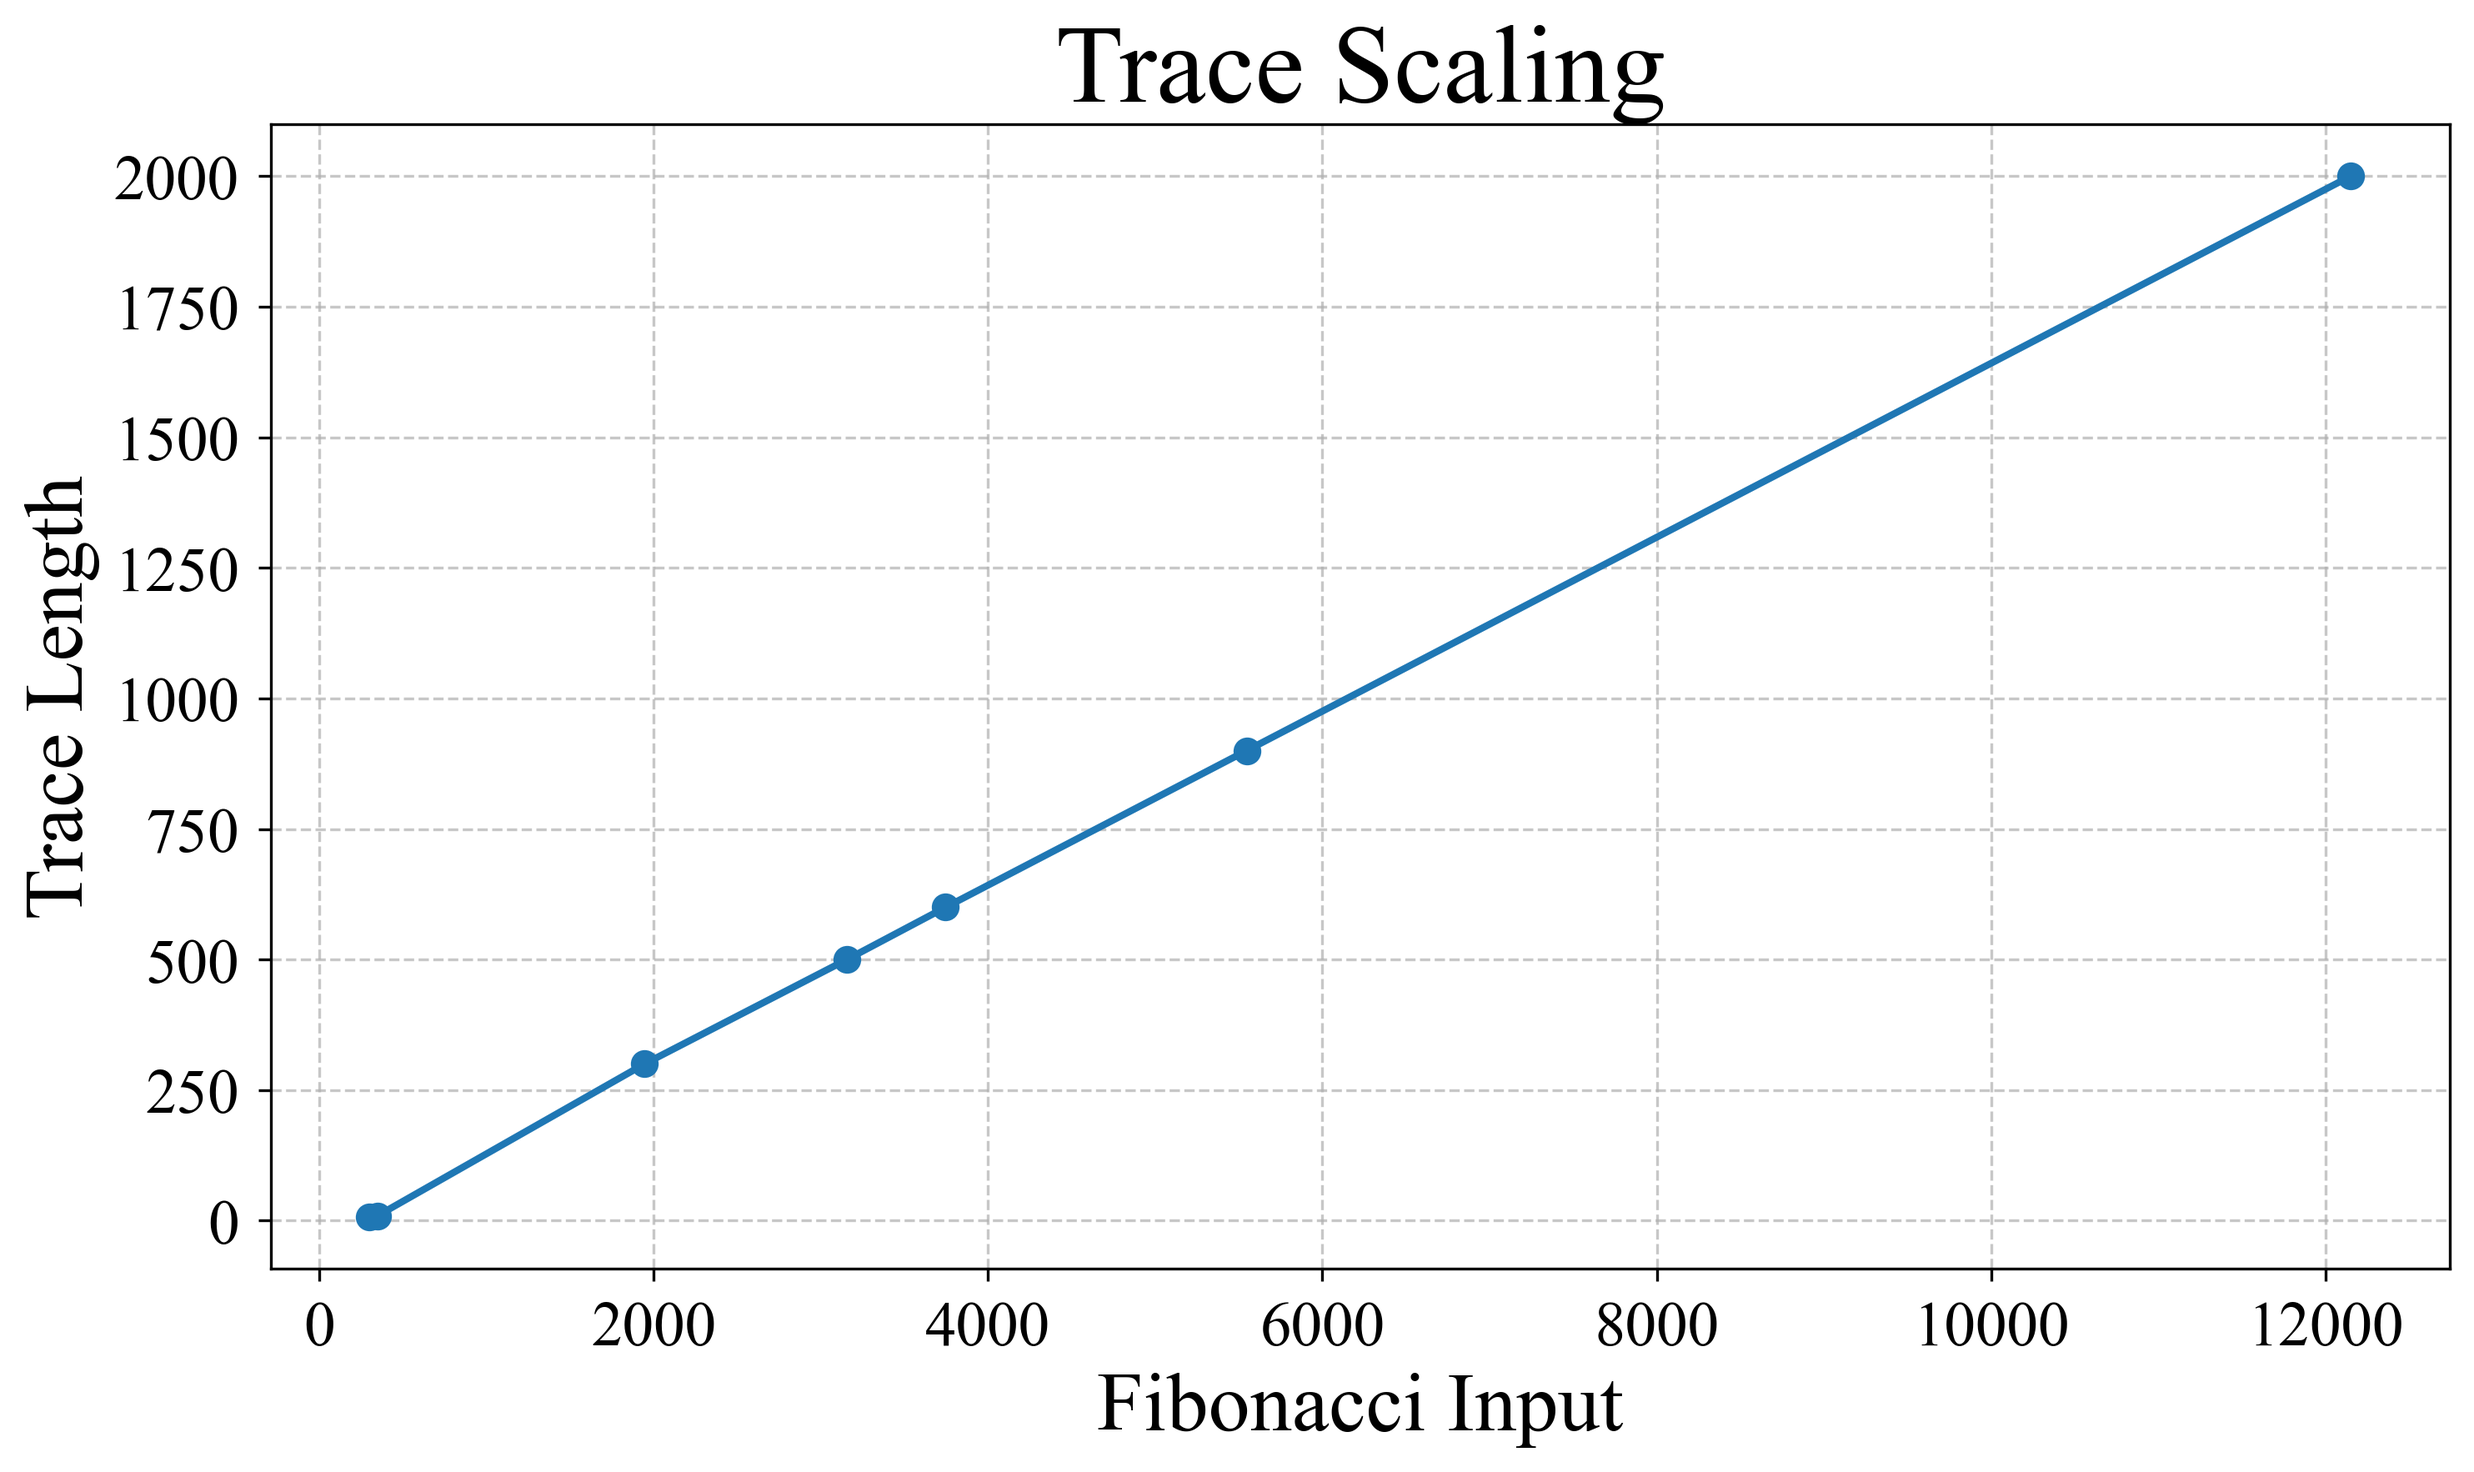
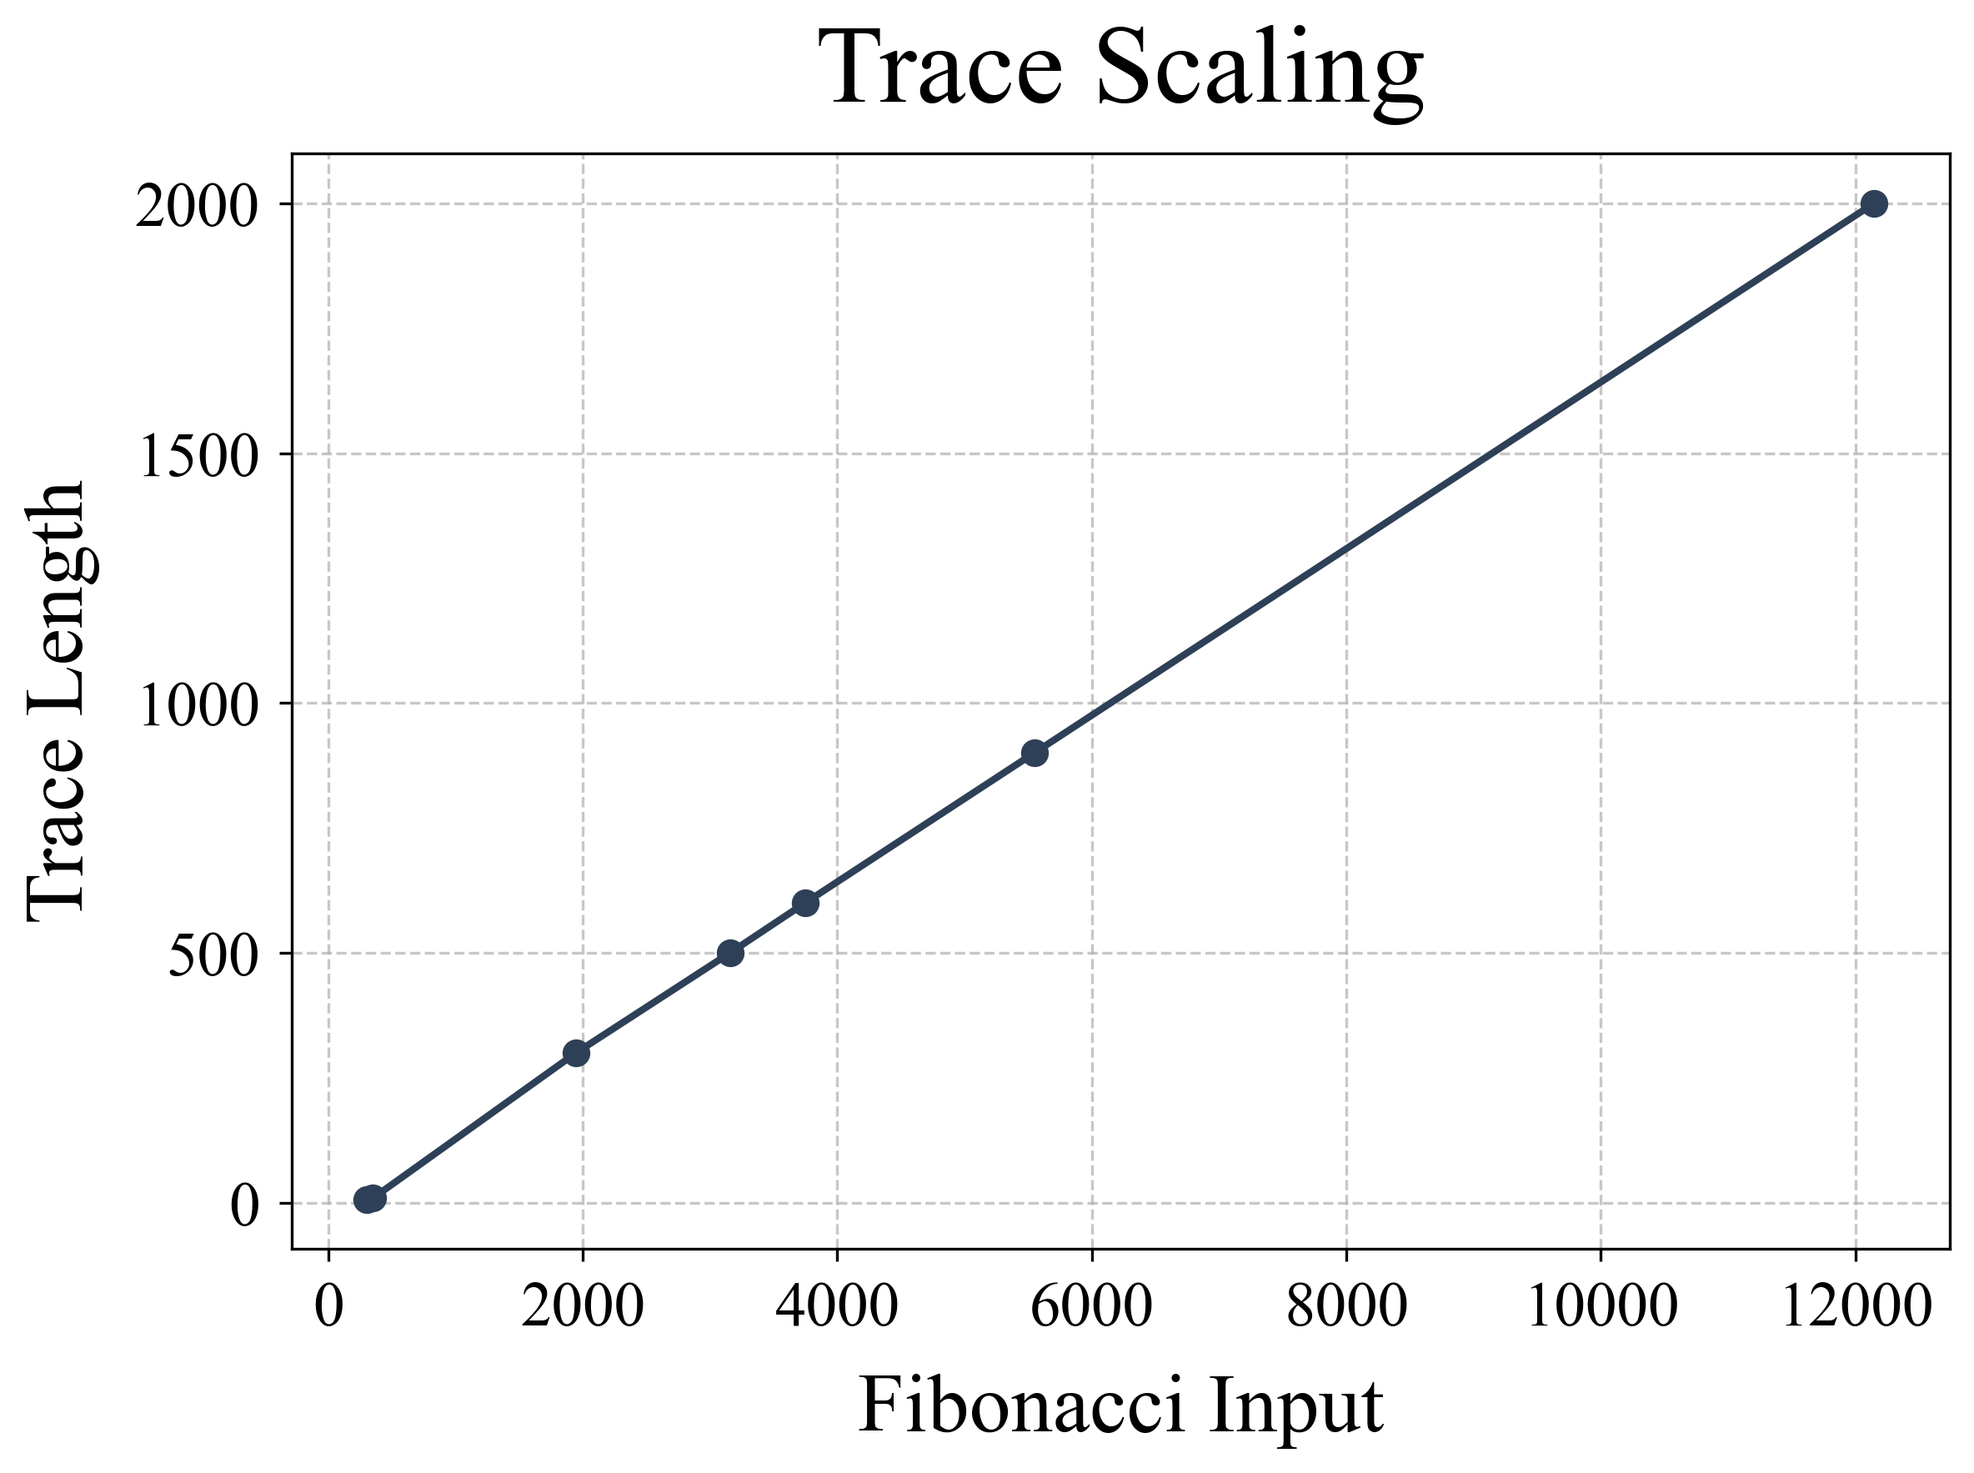
fix: consistent graph formatting (size, font, color, etc)

diff --git a/plot/mem-overhead/plot_mem_overhead.py b/plot/mem-overhead/plot_mem_overhead.py
@@ -2,6 +2,7 @@ import matplotlib.pyplot as plt
 import matplotlib as mpl
 import ast
 import os
+
 # Set style for research paper
 plt.style.use('seaborn-v0_8-paper')
 mpl.rcParams['font.family'] = 'serif'
@@ -22,19 +23,19 @@ x_values = [item[0] for item in data]
 y_values = [item[1] for item in data]
 
 # Create the plot
-plt.figure(figsize=(10, 6))
-plt.plot(x_values, y_values, 'o-', linewidth=2, markersize=8)
+fig, ax = plt.subplots(figsize=(8, 6))
+ax.plot(x_values, y_values, 'o-', color='#2E4057', linewidth=2, markersize=8)
 
 # Add labels and title
-plt.xlabel('Trace Length')
-plt.ylabel('Percent Memory Proof (%)')
-plt.title('Memory Proof Overhead')
+ax.set_xlabel('Trace Length', fontsize=24, labelpad=10)
+ax.set_ylabel('Percent Memory Proof (%)', fontsize=24, labelpad=10)
+ax.set_title('Memory Proof Overhead', fontsize=32, pad=15)
 
 # Set y-axis limits
-plt.ylim(40, 80)
+ax.set_ylim(40, 80)
 
 # Add grid for better readability
-plt.grid(True, linestyle='--', alpha=0.7)
+ax.grid(True, linestyle='--', alpha=0.7)
 
 # Save the plot
 plt.tight_layout()

diff --git a/plot/trace/plot_trace_len.py b/plot/trace/plot_trace_len.py
@@ -2,6 +2,7 @@ import matplotlib.pyplot as plt
 import matplotlib as mpl
 import ast
 import os
+
 # Set style for research paper
 plt.style.use('seaborn-v0_8-paper')
 mpl.rcParams['font.family'] = 'serif'
@@ -22,16 +23,16 @@ x_values = [item[1] for item in data]
 y_values = [item[0] for item in data]
 
 # Create the plot
-plt.figure(figsize=(10, 6))
-plt.plot(x_values, y_values, 'o-', linewidth=2, markersize=8)
+fig, ax = plt.subplots(figsize=(8, 6))
+ax.plot(x_values, y_values, 'o-', color='#2E4057', linewidth=2, markersize=8)
 
 # Add labels and title
-plt.xlabel('Fibonacci Input')
-plt.ylabel('Trace Length')
-plt.title('Trace Scaling')
+ax.set_xlabel('Fibonacci Input', fontsize=24, labelpad=10)
+ax.set_ylabel('Trace Length', fontsize=24, labelpad=10)
+ax.set_title('Trace Scaling', fontsize=32, pad=15)
 
 # Add grid for better readability
-plt.grid(True, linestyle='--', alpha=0.7)
+ax.grid(True, linestyle='--', alpha=0.7)
 
 # Save the plot
 plt.tight_layout()

diff --git a/plot/prove/plotter.py b/plot/prove/plotter.py
@@ -26,7 +26,7 @@ with open(omc_file, 'r') as f:
 with open(r1cs_file, 'r') as f:
     r1cs_data = literal_eval(f.read())
 
-fig, ax = plt.subplots(figsize=(12, 10))
+fig, ax = plt.subplots(figsize=(8, 6))
 omc_x = [point[0] for point in omc_data]
 omc_y = [point[1] * 65/50 for point in omc_data]
 r1cs_x = [point[0] for point in r1cs_data] 

diff --git a/plot/size/plotter.py b/plot/size/plotter.py
@@ -26,7 +26,7 @@ with open(omc_file, 'r') as f:
 with open(r1cs_file, 'r') as f:
     r1cs_data = literal_eval(f.read())
 
-fig, ax = plt.subplots(figsize=(6, 5))
+fig, ax = plt.subplots(figsize=(8, 6))
 omc_x = [point[0] for point in omc_data]
 omc_y = [point[1] * 1024 for point in omc_data]
 r1cs_x = [point[0] for point in r1cs_data] 

diff --git a/plot/verify/plotter.py b/plot/verify/plotter.py
@@ -26,7 +26,7 @@ with open(omc_file, 'r') as f:
 with open(r1cs_file, 'r') as f:
     r1cs_data = literal_eval(f.read())
 
-fig, ax = plt.subplots(figsize=(6, 5))
+fig, ax = plt.subplots(figsize=(8, 6))
 omc_x = [point[0] for point in omc_data]
 omc_y = [point[1] * 1000 for point in omc_data]
 r1cs_x = [point[0] for point in r1cs_data] 

diff --git a/plot/prove-large/plotter.py b/plot/prove-large/plotter.py
@@ -26,7 +26,7 @@ with open(omc_file, 'r') as f:
 with open(r1cs_file, 'r') as f:
     r1cs_data = literal_eval(f.read())
 
-fig, ax = plt.subplots(figsize=(12, 10))
+fig, ax = plt.subplots(figsize=(8, 6))
 omc_x = [point[0] for point in omc_data]
 omc_y = [point[1] for point in omc_data]
 r1cs_x = [point[0] for point in r1cs_data] 

diff --git a/plot/constraints-nonuniform/plotter.py b/plot/constraints-nonuniform/plotter.py
@@ -27,7 +27,7 @@ for file_name in data_files:
         data_series[file_name] = ast.literal_eval(f.read())
 
 # Create the plot
-fig, ax = plt.subplots(figsize=(10, 8))
+fig, ax = plt.subplots(figsize=(8, 6))
 
 # Plot each series with different colors and markers
 colors = ['#2E4057', '#2E7D32', '#C62828']

diff --git a/plot/constraints-uniform/plotter.py b/plot/constraints-uniform/plotter.py
@@ -27,7 +27,7 @@ for file_name in data_files:
         data_series[file_name] = ast.literal_eval(f.read())
 
 # Create the plot
-fig, ax = plt.subplots(figsize=(10, 8))
+fig, ax = plt.subplots(figsize=(8, 6))
 
 # Plot each series with different colors and markers
 colors = ['#2E4057', '#2E7D32', '#C62828']
